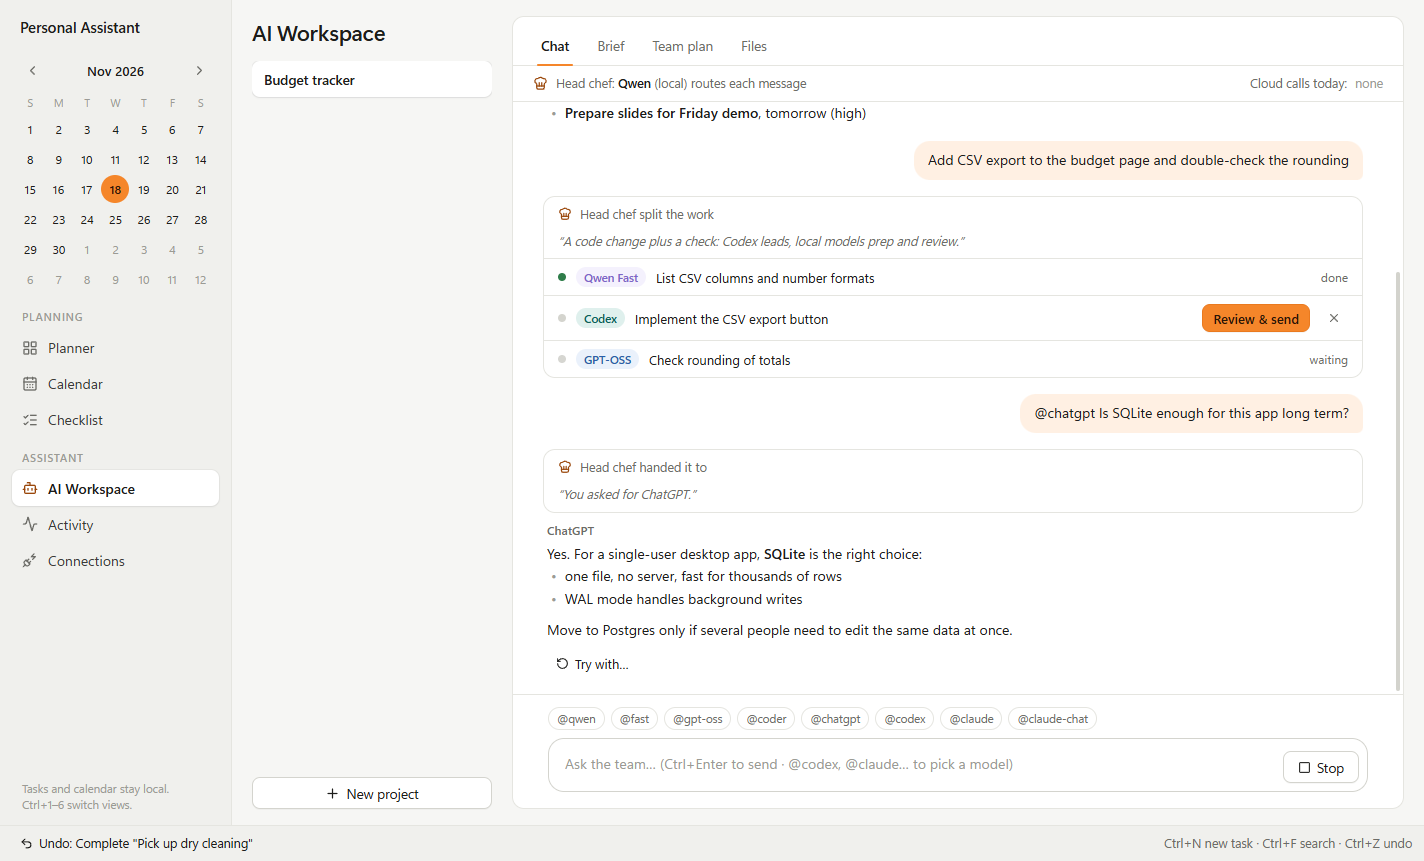
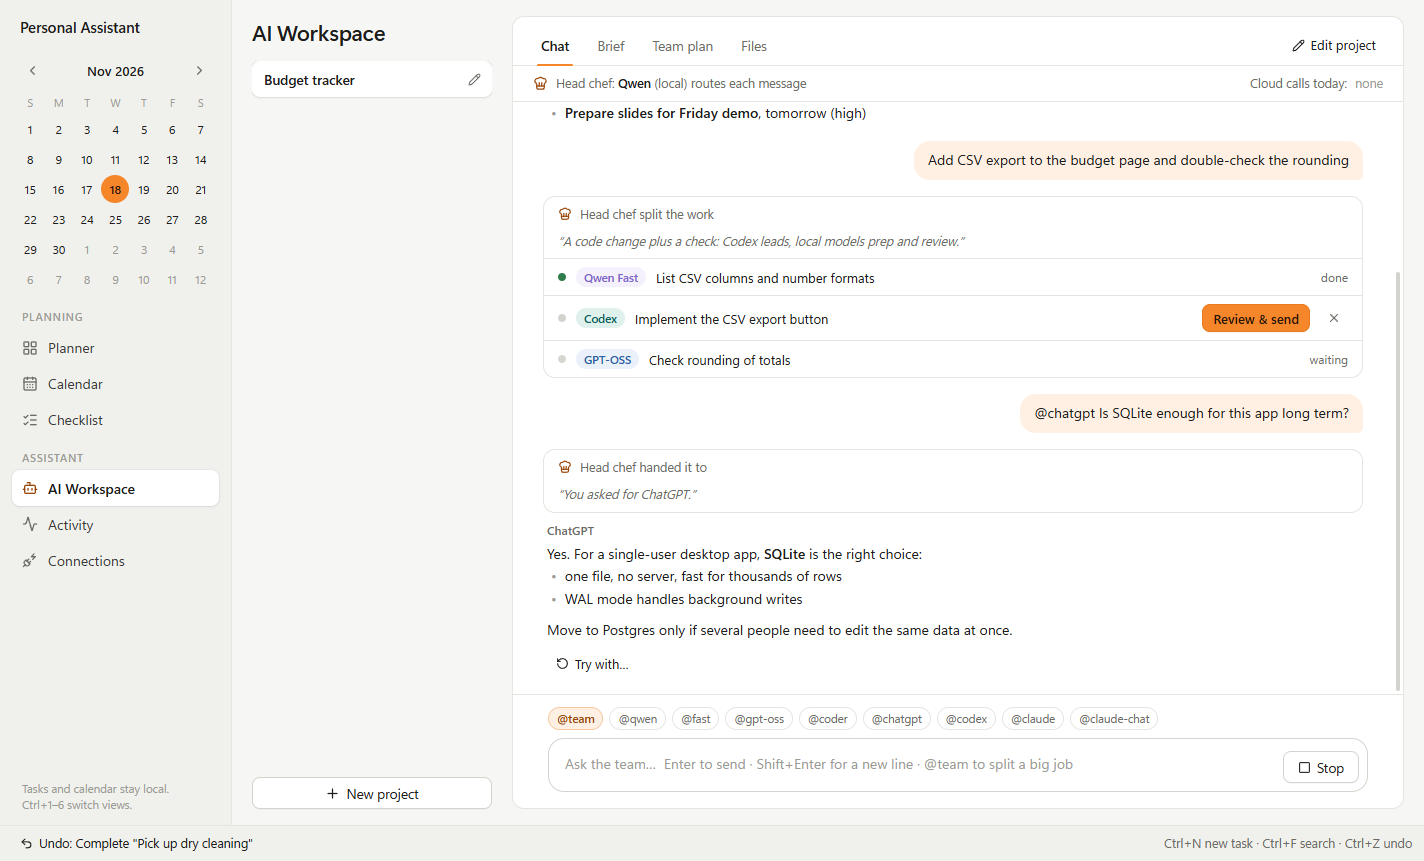
Easier project editing, Enter to send, @team split jobs
- Rename projects with a pencil or double-click; "Edit project" button; new projects
  open on the Brief; the chat nudges when a project has no brief.
- Enter sends, Shift+Enter adds a line (never mid-IME composition).
- @team forces the head chef to split a job across models (one retry), with stricter
  rules: only file-writing models build, and a safeguard moves slipped build tasks
  to Qwen Coder/Codex/Claude Code. 18 tests.

Changed region(s): [[0.3708, 0.8153, 0.8034, 0.8455], [0.4635, 0.8757, 0.7416, 0.9059], [0.8961, 0.0302, 0.9579, 0.0604]]

diff --git a/src/renderer/views/AIWorkspace.tsx b/src/renderer/views/AIWorkspace.tsx
@@ -1,5 +1,5 @@
 import { useEffect, useMemo, useState } from "react";
-import { ClipboardCheck, FolderOpen, Loader2, Play, Plus, Sparkles, Square, Trash2 } from "lucide-react";
+import { ClipboardCheck, FolderOpen, Loader2, Pencil, Play, Plus, Sparkles, Square, Trash2 } from "lucide-react";
 import type { Project, Step, WorkerId } from "../../shared/types";
 import { waves } from "../../main/orchestrator";
 import { ChatTab } from "./Chat";
@@ -12,14 +12,17 @@ type Tab = "chat" | "brief" | "team" | "files";
 export function AIWorkspace() {
   const [projects] = useData(() => api.listProjects(), [], ["projects"]);
   const [pid, setPid] = useState<string | null>(null);
+  const [fresh, setFresh] = useState<string | null>(null); // a just-created project opens on its Brief
   const [creating, setCreating] = useState(false);
   const [newTitle, setNewTitle] = useState("");
+  const [renaming, setRenaming] = useState<string | null>(null);
   useEffect(() => { if (!pid && projects?.length) setPid(projects[0].id); }, [projects, pid]);
   const project = projects?.find((p) => p.id === pid) ?? null;
 
   const create = async () => {
     try {
       const p = await api.createProject(newTitle);
+      setFresh(p.id);
       setPid(p.id);
       setCreating(false);
       setNewTitle("");
@@ -34,31 +37,52 @@ export function AIWorkspace() {
         <h1 className="pb-3 text-[22px] font-semibold">AI Workspace</h1>
         <div className="flex min-h-0 flex-1 flex-col gap-1 overflow-y-auto">
           {(projects ?? []).length === 0 && <Empty>No projects yet.</Empty>}
-          {(projects ?? []).map((p) => (
-            <button key={p.id} type="button" onClick={() => setPid(p.id)}
-              className={cx("rounded-lg px-3 py-2 text-left text-[13.5px] transition-colors duration-100",
-                p.id === pid ? "bg-panel font-semibold shadow-[0_1px_2px_rgba(0,0,0,0.06),0_0_0_1px_rgba(0,0,0,0.05)]" : "hover:bg-hover")}>
-              <span className="block truncate">{p.title}</span>
-            </button>
+          {(projects ?? []).map((p) => renaming === p.id ? (
+            <RenameField key={p.id} project={p} onDone={() => setRenaming(null)} />
+          ) : (
+            <div key={p.id} className={cx("group flex items-center rounded-lg transition-colors duration-100",
+              p.id === pid ? "bg-panel shadow-[0_1px_2px_rgba(0,0,0,0.06),0_0_0_1px_rgba(0,0,0,0.05)]" : "hover:bg-hover")}>
+              <button type="button" onClick={() => setPid(p.id)} onDoubleClick={() => setRenaming(p.id)} title="Double-click to rename"
+                className={cx("min-w-0 flex-1 truncate px-3 py-2 text-left text-[13.5px]", p.id === pid && "font-semibold")}>{p.title}</button>
+              <button type="button" aria-label={`Rename ${p.title}`} title="Rename" onClick={() => setRenaming(p.id)}
+                className={cx("mr-1 grid size-7 shrink-0 place-items-center rounded-md text-muted hover:bg-hover hover:text-ink",
+                  p.id === pid ? "opacity-100" : "opacity-0 group-hover:opacity-100 focus-visible:opacity-100")}>
+                <Pencil size={13} /></button>
+            </div>
           ))}
         </div>
         <Button className="mt-3" icon={<Plus size={15} />} onClick={() => setCreating(true)}>New project</Button>
         <Dialog open={creating} onClose={() => setCreating(false)} title="New project" width={400}
           footer={<><Button variant="ghost" onClick={() => setCreating(false)}>Cancel</Button><Button variant="primary" onClick={create}>Create</Button></>}>
-          <Field label="Title"><input className={inputCls} value={newTitle} onChange={(e) => setNewTitle(e.target.value)}
-            onKeyDown={(e) => { if (e.key === "Enter") void create(); }} placeholder="e.g. Budget tracker" /></Field>
+          <Field label="Title" hint="Next you'll describe it in the Brief, so every model knows what it's about.">
+            <input className={inputCls} value={newTitle} onChange={(e) => setNewTitle(e.target.value)}
+              onKeyDown={(e) => { if (e.key === "Enter") void create(); }} placeholder="e.g. Budget tracker" /></Field>
         </Dialog>
       </aside>
       <div className="min-w-0 flex-1">
-        {project ? <ProjectPane key={project.id} project={project} onDeleted={() => setPid(null)} /> :
+        {project ? <ProjectPane key={project.id} project={project} startOn={fresh === project.id ? "brief" : "chat"}
+          onDeleted={() => setPid(null)} /> :
           <div className="grid h-full place-items-center text-[14px] text-faint">Create a project to start.</div>}
       </div>
     </div>
   );
 }
 
-function ProjectPane({ project, onDeleted }: { project: Project; onDeleted: () => void }) {
-  const [tab, setTab] = useState<Tab>("chat");
+function RenameField({ project, onDone }: { project: Project; onDone: () => void }) {
+  const [title, setTitle] = useState(project.title);
+  const save = async () => {
+    if (title.trim() && title.trim() !== project.title) await attempt(() => api.updateProject(project.id, { title }));
+    onDone();
+  };
+  return (
+    <input autoFocus className={cx(inputCls, "h-[34px]")} value={title} maxLength={120} aria-label="Project name"
+      onChange={(e) => setTitle(e.target.value)} onBlur={() => void save()}
+      onKeyDown={(e) => { if (e.key === "Enter") void save(); if (e.key === "Escape") onDone(); }} />
+  );
+}
+
+function ProjectPane({ project, startOn, onDeleted }: { project: Project; startOn: Tab; onDeleted: () => void }) {
+  const [tab, setTab] = useState<Tab>(startOn);
   return (
     <div className="flex h-full flex-col overflow-hidden rounded-xl border border-line bg-panel">
       <div className="flex items-end gap-1 border-b border-line px-4 pt-2">
@@ -69,8 +93,13 @@ function ProjectPane({ project, onDeleted }: { project: Project; onDeleted: () =
             <span className={cx("absolute inset-x-2 -bottom-px h-[2px] rounded-full", tab === t ? "bg-accent" : "bg-transparent")} />
           </button>
         ))}
+        {tab !== "brief" && (
+          <Button size="sm" variant="ghost" className="mb-1.5 ml-auto" icon={<Pencil size={13} />} onClick={() => setTab("brief")}>
+            Edit project</Button>
+        )}
       </div>
-      {tab === "chat" && <div className="min-h-0 flex-1"><ChatTab project={project} onShowFiles={() => setTab("files")} /></div>}
+      {tab === "chat" && <div className="min-h-0 flex-1"><ChatTab project={project} onShowFiles={() => setTab("files")}
+        onEditBrief={() => setTab("brief")} /></div>}
       <div className="min-h-0 flex-1 overflow-y-auto p-5" hidden={tab === "chat"}>
         <div hidden={tab !== "brief"}><BriefTab project={project} onDeleted={onDeleted} onPlan={() => setTab("team")} /></div>
         <div hidden={tab !== "team"}><TeamTab project={project} /></div>
@@ -92,7 +121,12 @@ function BriefTab({ project, onDeleted, onPlan }: { project: Project; onDeleted:
   };
   return (
     <div className="flex max-w-[860px] flex-col gap-4" onKeyDown={(e) => { if (e.ctrlKey && e.key.toLowerCase() === "s") { e.preventDefault(); void save(); } }}>
-      <Field label="Title"><input className={inputCls} value={title} onChange={(e) => setTitle(e.target.value)} /></Field>
+      <div className="rounded-xl bg-[#fbfbfa] px-4 py-3 text-[13px] leading-relaxed text-muted">
+        <b className="font-semibold text-ink">Project details.</b> Rename the project and describe what you want. Every model in
+        Chat and Team plan reads this brief, so a clear one gets better results. Save, then use <b className="font-medium text-ink">Chat</b> for
+        quick requests or <b className="font-medium text-ink">Team plan</b> to have ChatGPT plan the whole build.
+      </div>
+      <Field label="Project name"><input className={inputCls} value={title} maxLength={120} onChange={(e) => setTitle(e.target.value)} /></Field>
       <Field label="Brief — what should be built" hint={`${brief.length} / 12000`}>
         <textarea className={textareaCls} rows={9} maxLength={12000} value={brief} onChange={(e) => setBrief(e.target.value)}
           placeholder="Describe the goal, who it's for, what done looks like." />

diff --git a/src/renderer/views/Chat.tsx b/src/renderer/views/Chat.tsx
@@ -9,7 +9,7 @@ import { AGENT_LABEL, AgentBadge, Button, Dialog } from "../ui";
 const ACTIVE = new Set(["thinking", "waiting", "working"]);
 const MODE_LABEL = { self: "answered itself", planner: "used your planner (local)", single: "handed it to", split: "split the work" };
 
-export function ChatTab({ project, onShowFiles }: { project: Project; onShowFiles: () => void }) {
+export function ChatTab({ project, onShowFiles, onEditBrief }: { project: Project; onShowFiles: () => void; onEditBrief: () => void }) {
   const [messages] = useData(() => api.listChat(project.id), [project.id], ["chat", "steps"]);
   const [steps] = useData(() => api.listSteps(project.id), [project.id], ["steps", "chat"]);
   const [usage] = useData(() => api.chatUsage(), [], ["chat", "steps", "jobs"]);
@@ -78,6 +78,13 @@ export function ChatTab({ project, onShowFiles }: { project: Project; onShowFile
       <div ref={list} onScroll={(e) => { const el = e.currentTarget; atBottom.current = el.scrollHeight - el.scrollTop - el.clientHeight < 40; }}
         className="min-h-0 flex-1 overflow-y-auto px-5 py-4">
         <div className="mx-auto flex max-w-[820px] flex-col gap-4">
+          {!project.brief.trim() && (
+            <div className="flex items-center gap-3 rounded-xl border border-[#f3c9a3] bg-accent-soft px-4 py-2.5 text-[13px]">
+              <span className="flex-1 text-accent-ink">This project has no brief yet. Add one so every model knows what it's about
+                (you can still chat without it).</span>
+              <Button size="sm" variant="secondary" onClick={onEditBrief}>Edit project</Button>
+            </div>
+          )}
           {msgs.length === 0 && <Welcome onPick={(t) => { setText(t); input.current?.focus(); }} />}
           {msgs.map((m) => m.role === "user"
             ? <UserBubble key={m.id} m={m} />
@@ -88,6 +95,10 @@ export function ChatTab({ project, onShowFiles }: { project: Project; onShowFile
       <div className="border-t border-line px-5 pt-3 pb-4">
         <div className="mx-auto max-w-[820px]">
           <div className="flex flex-wrap gap-1.5 pb-2">
+            <button type="button" title="Split a big job into sub-tasks for several models at once"
+              onClick={() => { setText((t) => `@team ${t.replace(/^@[a-z-]+\s*/i, "")}`); input.current?.focus(); }}
+              className="rounded-full border border-[#f3c9a3] bg-accent-soft px-2 py-0.5 text-[11.5px] font-medium text-accent-ink transition-colors duration-100 hover:border-accent">
+              @team</button>
             {CHAT_ROUTABLE.map((w) => (
               <button key={w} type="button" onClick={() => { setText((t) => `@${WORKERS[w].mention} ${t.replace(/^@[a-z-]+\s*/i, "")}`); input.current?.focus(); }}
                 className="rounded-full border border-line px-2 py-0.5 text-[11.5px] text-muted transition-colors duration-100 hover:border-line-strong hover:text-ink">
@@ -95,9 +106,13 @@ export function ChatTab({ project, onShowFiles }: { project: Project; onShowFile
             ))}
           </div>
           <div className="flex items-end gap-2 rounded-2xl border border-line-strong bg-panel p-2 transition-[border-color,box-shadow] duration-100 focus-within:border-accent-ink focus-within:shadow-[0_0_0_3px_rgba(245,134,42,0.15)]">
-            <textarea ref={input} value={text} rows={1} maxLength={12000} placeholder="Ask the team… (Ctrl+Enter to send · @codex, @claude… to pick a model)"
+            <textarea ref={input} value={text} rows={1} maxLength={12000}
+              placeholder="Ask the team…  Enter to send · Shift+Enter for a new line · @team to split a big job"
               onChange={(e) => setText(e.target.value)}
-              onKeyDown={(e) => { if (e.key === "Enter" && e.ctrlKey) { e.preventDefault(); void send(); } }}
+              onKeyDown={(e) => {
+                // Enter sends; Shift+Enter is a new line. Never send mid-composition (Vietnamese/IME input).
+                if (e.key === "Enter" && !e.shiftKey && !e.nativeEvent.isComposing) { e.preventDefault(); void send(); }
+              }}
               onInput={(e) => { const el = e.currentTarget; el.style.height = "auto"; el.style.height = `${Math.min(220, el.scrollHeight)}px`; }}
               className="max-h-[220px] min-h-[36px] flex-1 resize-none bg-transparent px-2 py-1.5 text-[14px] leading-relaxed outline-none placeholder:text-faint" />
             {active ? (
@@ -130,7 +145,8 @@ export function ChatTab({ project, onShowFiles }: { project: Project; onShowFile
 
 function Welcome({ onPick }: { onPick: (t: string) => void }) {
   const ideas = ["What's on my plate this week?", "Add a task to call the bank on Friday, high priority",
-    "Build a small HTML page that converts USD to VND", "@chatgpt Compare SQLite and Postgres for a personal app"];
+    "Build a small HTML page that converts USD to VND", "@chatgpt Compare SQLite and Postgres for a personal app",
+    "@team Build a one-page monthly budget planner: income, expense categories, a summary chart and CSV export"];
   return (
     <div className="py-10 text-center">
       <ChefHat size={28} className="mx-auto text-accent-ink" />
@@ -166,7 +182,8 @@ function Ticket({ m, steps, live, onReview, onShowFiles }: {
   const text = ACTIVE.has(m.status) && live !== undefined ? live : m.content;
   const wrote = steps.some((s) => WORKERS[s.agent].writes && s.status === "done");
   const header: ReactNode = m.status === "thinking" ? "Head chef is reading your message…"
-    : m.mode === "single" && steps[0] ? <>Head chef {MODE_LABEL.single} <AgentBadge agent={steps[0].agent} /></>
+    : m.mode === "single" && (steps[0] || WORKERS[m.author as WorkerId])
+      ? <>Head chef {MODE_LABEL.single} <AgentBadge agent={steps[0]?.agent ?? (m.author as WorkerId)} /></>
     : m.mode ? `Head chef ${MODE_LABEL[m.mode]}` : "Head chef";
   return (
     <div className="flex flex-col gap-2">

diff --git a/src/main/chat.ts b/src/main/chat.ts
@@ -22,7 +22,7 @@ export function teamList(available: WorkerId[]): string {
     .map((w) => `- "${w}" (${isCloud(w) ? "cloud, needs the user's approval, uses their plan" : "local, free"}): ${WORKERS[w].role}`).join("\n");
 }
 
-export function routerPrompt(p: Project, context: string, message: string, available: WorkerId[]): string {
+export function routerPrompt(p: Project, context: string, message: string, available: WorkerId[], forceSplit = false): string {
   return `You are the head chef of a team of AI models on the user's PC. Decide how to handle the user's message.
 
 Choose exactly one mode:
@@ -39,9 +39,18 @@ Choosing workers (the lead chef cooks, apprentices prep):
 - Hard reasoning, planning, research-style questions → "chatgpt". Long or polished writing → "claude-chat" or "qwen".
 - Checking/reviewing → "gpt-oss". Quick extraction/reformatting → "qwen-fast".
 - In "split", give apprentices (local) the prep tasks and one lead (often cloud) the main dish.
+- ONLY "qwen-coder", "codex" and "claude" can create or edit files. Any task that builds, implements, writes code,
+  integrates or fixes files MUST go to one of them. "chatgpt", "qwen", "qwen-fast", "gpt-oss" and "claude-chat" only
+  produce text (specs, designs, content, checklists, reviews) that later tasks can use through "deps".
+- Prefer ONE file-writing lead for the main build (several writers editing the same files conflict); put the text
+  prep in parallel before it and a review after it.
 
 Workers available now:
 ${teamList(available)}
+${forceSplit ? `
+THE USER ASKED FOR TEAMWORK (@team): you MUST choose "split" with 3-5 tasks. Make at least two tasks independent
+(no deps between them) so they run at the same time on different workers, give the main build to the best "lead",
+and add a final check task that depends on the build.` : ""}
 
 Reply with JSON only:
 {"mode":"self|planner|single|split","reason":"one short sentence the user will see","worker":"<id, for single>",
@@ -54,6 +63,12 @@ ${context || "(none)"}
 
 # User's latest message
 ${message}`;
+}
+
+/** "@team build X" → [true, "build X"]: the user wants the job split across several models. */
+export function parseTeam(text: string): [boolean, string] {
+  const m = /^\s*@team\b[\s,:]*/i.exec(text);
+  return m ? [true, text.slice(m[0].length).trim()] : [false, text];
 }
 
 export function parseRoute(text: string, available: WorkerId[]): Route | null {
@@ -75,9 +90,19 @@ export function parseRoute(text: string, available: WorkerId[]): Route | null {
   if (mode === "split") {
     const tasks = parseTasks(d.tasks, available.filter((w) => CHAT_ROUTABLE.includes(w)));
     if (!tasks || tasks.length < 2) return null;
-    return { mode, reason, tasks: tasks.slice(0, 5) };
+    return { mode, reason, tasks: fixWriters(tasks.slice(0, 5), available) };
   }
   return null;
+}
+
+const BUILDS = /\b(build|implement|integrat\w*|cod(e|ing)|fix|refactor|write (the )?(code|files?|page|html|script)|create (the |a )?(page|files?|app|script|component))\b/i;
+
+/** A task that builds or edits files must go to a worker that can write files; move it if the head chef slipped. */
+export function fixWriters(tasks: Draft[], available: WorkerId[]): Draft[] {
+  const writer = (["qwen-coder", "codex", "claude"] as WorkerId[]).find((w) => available.includes(w));
+  if (!writer) return tasks;
+  return tasks.map((t) => (!WORKERS[t.agent].writes && BUILDS.test(t.title) ? { ...t, agent: writer,
+    why: `${t.why ? `${t.why} ` : ""}(moved to ${WORKERS[writer].name}: only file-writing models can build)`.trim() } : t));
 }
 
 /** Recent conversation as text. Cloud models never see private (planner) messages. */

diff --git a/src/main/main.ts b/src/main/main.ts
@@ -5,7 +5,7 @@ import { readdir, readFile as readFileAsync, stat } from "node:fs/promises";
 import { join, resolve, relative, sep } from "node:path";
 import { Store, ValidationError } from "./db";
 import { AgentError, KEEP_ALIVE, agentStatuses, ollamaChat, ollamaPost, ollamaStream, runClaude, runClaudeChat, runCodex, runCodexEdit } from "./providers";
-import { RECENT, SUMMARY_SYSTEM, contextText, mergePrompt, parseRoute, routerPrompt, runPlanner, selfSystem, workerPrompt, type Route } from "./chat";
+import { RECENT, SUMMARY_SYSTEM, contextText, mergePrompt, parseRoute, parseTeam, routerPrompt, runPlanner, selfSystem, workerPrompt, type Route } from "./chat";
 import { runLocalCoder } from "./localcoder";
 import { goodPlan, parsePlan, parseReview, plannerPrompt, reviewPrompt, rulePlan, stepPrompt, type Draft } from "./orchestrator";
 import type { ChatMessage, ConnectionsReport, PlanResult, Project, Step, WorkerId } from "../shared/types";
@@ -326,19 +326,24 @@ async function route(project: Project, history: ChatMessage[], text: string, rep
   try {
     const t = await team();
     const avail = t.ready.filter((w) => CHAT_ROUTABLE.includes(w));
-    const [mention, body] = parseMention(text);
+    const [wantsTeam, teamBody] = parseTeam(text);
+    const [mention, body] = wantsTeam ? [null, teamBody] as const : parseMention(text);
     let r: Route | null = null;
     if (mention) {
       if (!avail.includes(mention)) throw new AgentError(`${WORKERS[mention].name} isn't available right now (see Connections).`);
       r = { mode: "single", worker: mention, reason: `You asked for ${WORKERS[mention].name}.` };
     } else if (avail.includes(CHEF)) {
-      const ans = await ollamaChat(modelOf(CHEF), "Reply with JSON only.",
-        routerPrompt(project, contextText(history, chatSummary(project.id), false), text, avail),
-        { json: true, think: false, timeoutMs: 15 * 60_000, signal: ctl.signal }); // JSON-constrained: no need to think
-      r = parseRoute(ans, avail);
+      // @team forces a split; one retry if the head chef still doesn't split. JSON-constrained, so no thinking needed.
+      for (let attemptNo = 0; attemptNo < (wantsTeam ? 2 : 1) && (!r || (wantsTeam && r.mode !== "split")); attemptNo++) {
+        const ans = await ollamaChat(modelOf(CHEF), "Reply with JSON only.",
+          routerPrompt(project, contextText(history, chatSummary(project.id), false), body, avail, wantsTeam),
+          { json: true, think: false, timeoutMs: 15 * 60_000, signal: ctl.signal });
+        r = parseRoute(ans, avail) ?? r;
+      }
+      if (wantsTeam && r && r.mode !== "split") r = { ...r, reason: `Couldn't split this one sensibly, so: ${r.reason}` };
     }
     if (!r) r = { mode: "self", reason: avail.includes(CHEF) ? "Answering directly." : "Head chef unavailable; answering with what's ready." };
-    const content = mention ? body : text;
+    const content = mention || wantsTeam ? body : text;
     store.updateChat(replyId, { mode: r.mode, reason: r.reason, status: r.mode === "self" || r.mode === "planner" ? "working" : "waiting" });
     changed("chat");
 

diff --git a/tests/core.test.ts b/tests/core.test.ts
@@ -9,7 +9,7 @@ import { Store, ValidationError } from "../src/main/db";
 import { goodPlan, parsePlan, parseReview, rulePlan, stepPrompt, waves } from "../src/main/orchestrator";
 import { matches } from "../src/shared/filters";
 import { parseMention } from "../src/shared/workers";
-import { contextText, parseRoute, runPlannerTool } from "../src/main/chat";
+import { contextText, fixWriters, parseRoute, parseTeam, runPlannerTool } from "../src/main/chat";
 
 const dir = () => mkdtempSync(join(process.env.PA_TEST_TMP ?? tmpdir(), "pa-test-"));
 
@@ -245,4 +245,19 @@ test("chat: messages, chat steps stay out of Run all, cloud usage counts today",
     s.close();
     rmSync(dd, { recursive: true, force: true });
   }
+});
+
+test("chat: @team asks for a split job", () => {
+  assert.deepEqual(parseTeam("@team build a budget planner"), [true, "build a budget planner"]);
+  assert.deepEqual(parseTeam("  @Team: plan my week"), [true, "plan my week"]);
+  assert.deepEqual(parseTeam("@teams are great"), [false, "@teams are great"]);
+  assert.deepEqual(parseTeam("ask the @team later"), [false, "ask the @team later"]);
+});
+
+test("chat: build tasks given to text-only models are moved to a file-writing worker", () => {
+  const d = (title: string, agent: "gpt-oss" | "qwen" | "chatgpt") => ({ title, agent, why: "", prompt: "" });
+  const fixed = fixWriters([d("Final integration and review", "gpt-oss"), d("Write the README text", "qwen"),
+    d("Implement CSV export", "chatgpt")], ["qwen", "gpt-oss", "qwen-coder", "chatgpt"]);
+  assert.deepEqual(fixed.map((t) => t.agent), ["qwen-coder", "qwen", "qwen-coder"]);
+  assert.deepEqual(fixWriters([d("Build it", "qwen")], ["qwen"]).map((t) => t.agent), ["qwen"], "no writer available: unchanged");
 });

diff --git a/README.md b/README.md
@@ -14,10 +14,12 @@ A Windows desktop app for your day (planner, calendar, checklist) with a built-i
   answer itself (quick things) · use your **planner** (read/add/move/complete tasks and events, locally only; those replies
   never reach cloud models) · hand it to **one** model · or **split** it into sub-tasks that run in parallel and merge
   the results (prep on local "apprentices", the main dish on a stronger "lead"). `@codex`, `@claude`, `@chatgpt`, `@qwen`,
-  `@coder`, `@gpt-oss`, `@fast`, `@claude-chat` pick a model yourself. Every answer shows why it was routed, has
+  `@coder`, `@gpt-oss`, `@fast`, `@claude-chat` pick a model yourself; **`@team`** makes the head chef split the job
+  across several models. Enter sends, Shift+Enter adds a line. Every answer shows why it was routed, has
   "Try with…" to compare models, and a Stop button. Cloud steps wait for **Review & send**; a counter shows today's
   cloud calls. Replies stream and follow your language (English/Vietnamese). One thread per project; models see the
   last 10 messages plus a running summary kept locally. Chat sub-tasks also appear on the Team plan board.
+- **Projects** — rename with the pencil (or double-click); **Edit project** opens the Brief. New projects open on the Brief.
 - **AI Workspace → Team plan** — write a brief, then:
   1. **Plan with ChatGPT** → ChatGPT splits the brief into tasks, assigns each to a worker and sets dependencies.
   2. **Run all** → tasks run on local models; tasks that don't depend on each other run **in parallel** (default up to 3).
@@ -61,7 +63,7 @@ checklist data are never sent to any model.
 
     npm install
     npm start            # build and open the app (or double-click "Personal Assistant.cmd")
-    npm test             # 16 automated tests
+    npm test             # 18 automated tests
     npm run typecheck
     npm run shot         # render every view to data\screenshots\*.png
 
